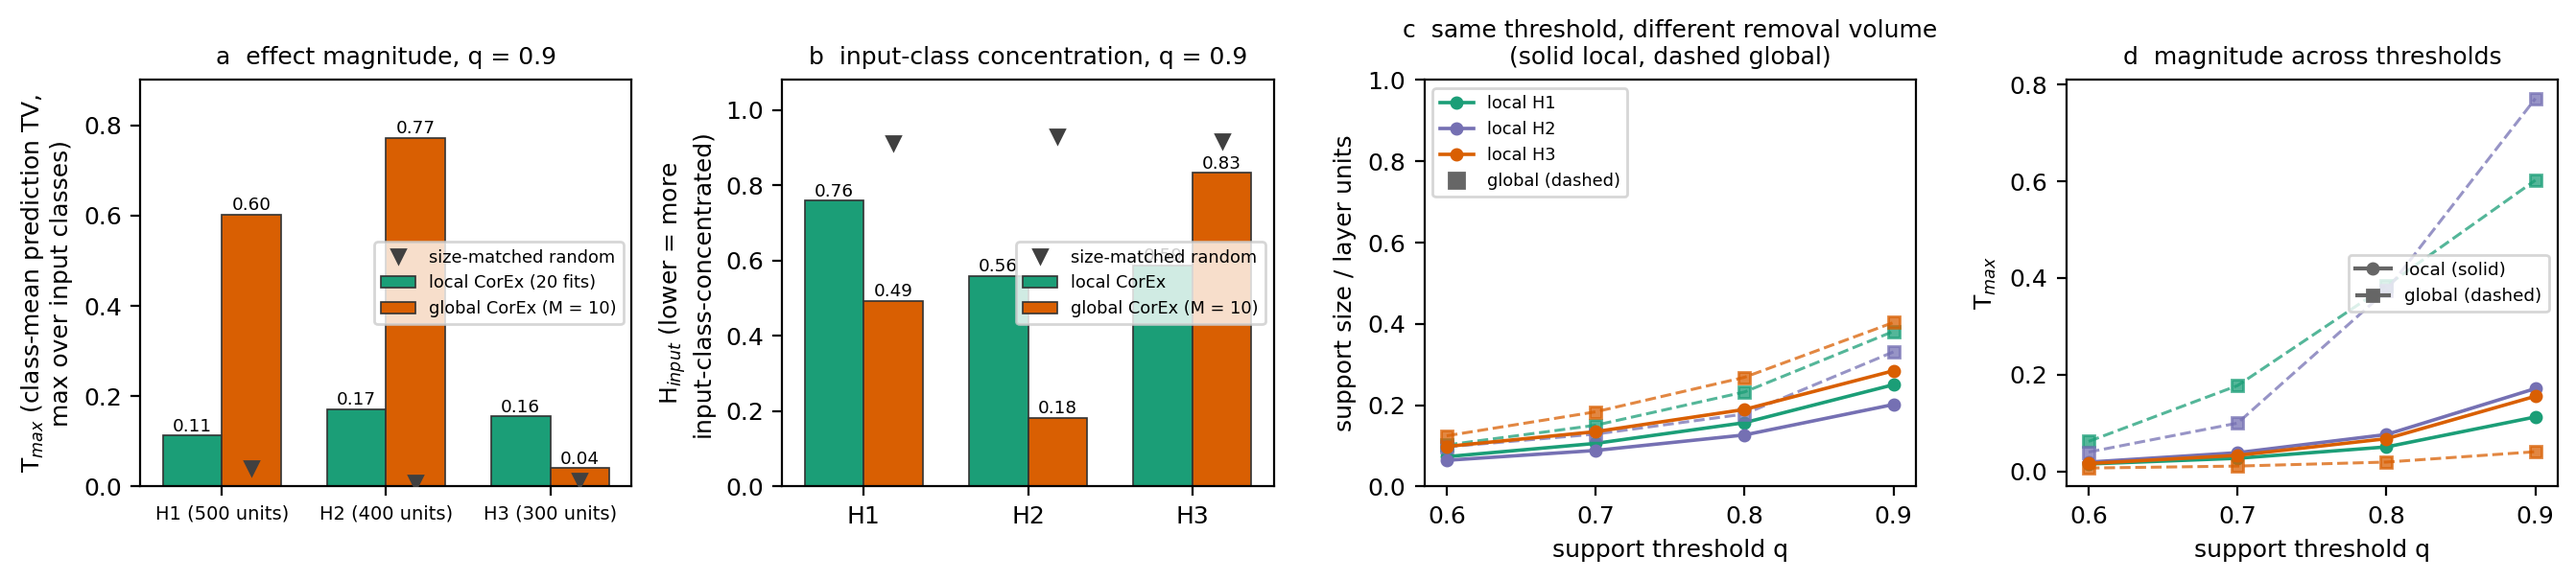
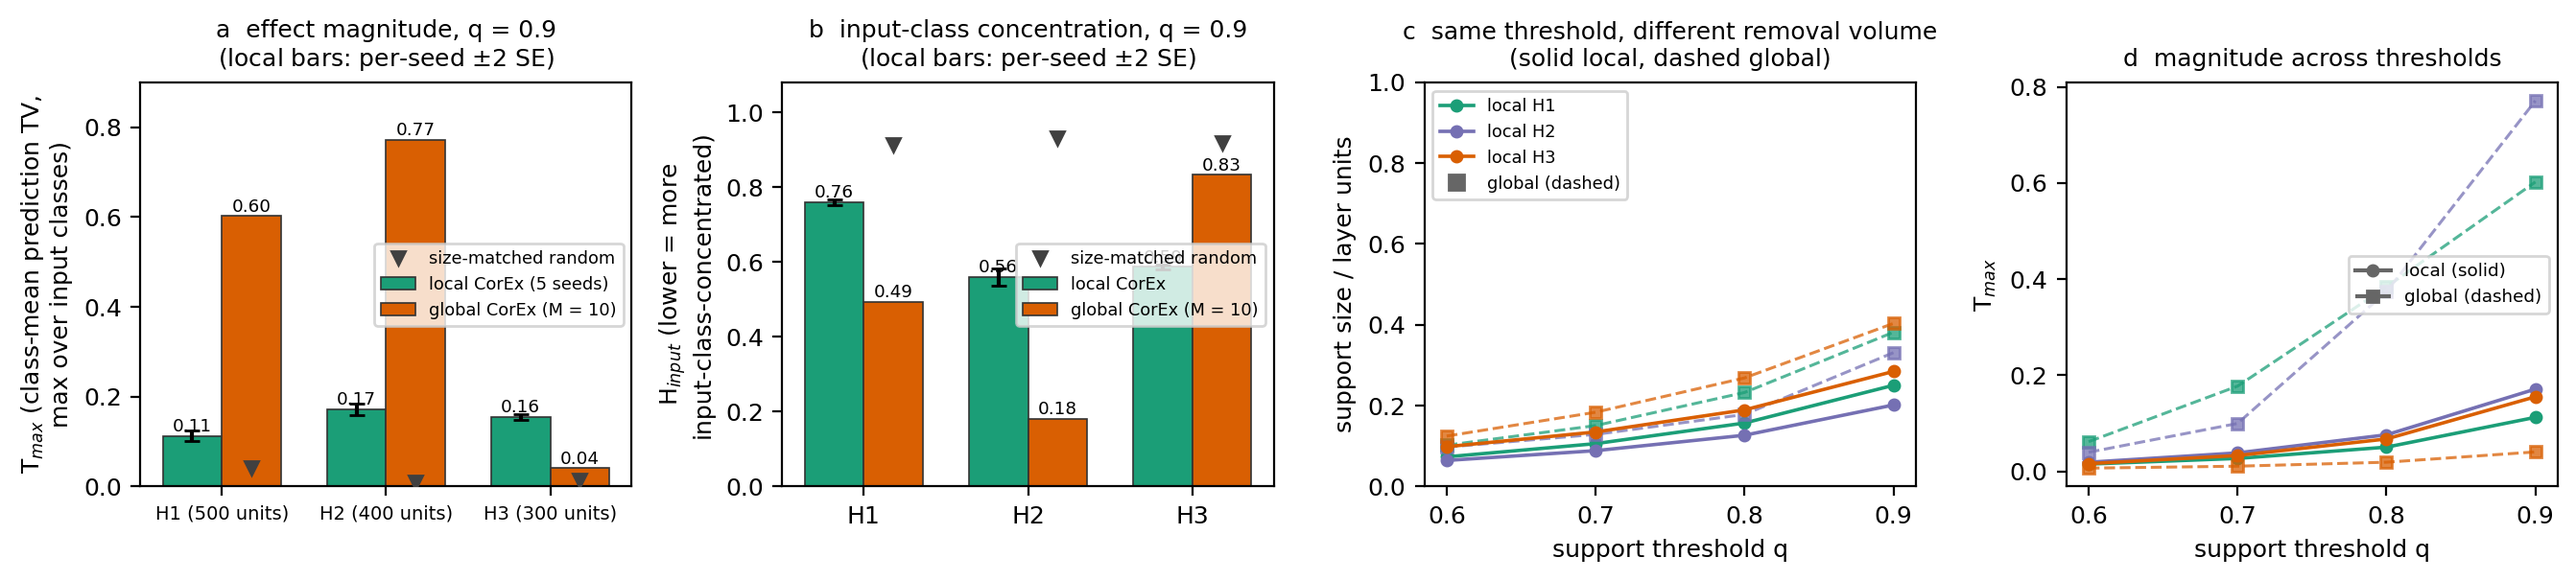
Fig 6: per-seed uncertainty on the local bars; reconciliation note on region/nuisance weighting
Closes the two remaining gaps from the round-2 review: the direct
local/global comparison now shows local-arm per-seed +/-2 SE bars (the
global-arm committed tables store only pooled means, so its interval is
flagged in the caption), and the E2 reconciliation paragraph states
explicitly that the candidate pool, nuisance settings, and region
handling are identical across the two conventions.

diff --git a/paper/figures/make_paper_figures.py b/paper/figures/make_paper_figures.py
@@ -517,14 +517,25 @@ def figure_6():
     ax = axes[0]
     xs = np.arange(3)
     w = 0.36
-    lv = [loc[(loc.threshold == 0.9) & (loc.layer == l)].T_max.mean()
-          for l in layers]
+
+    def loc_seed_err(col):
+        """Local-arm per-seed means (5 network seeds) -> mean and 2*SE."""
+        perseed = loc[loc.threshold == 0.9].groupby(
+            ["layer", "model_seed"])[col].mean().reset_index()
+        means, errs = [], []
+        for l in layers:
+            v = perseed[perseed.layer == l][col].to_numpy()
+            means.append(v.mean())
+            errs.append(2 * v.std(ddof=1) / np.sqrt(len(v)))
+        return np.array(means), np.array(errs)
+
+    lv, lv_err = loc_seed_err("T_max")
     gv = [gl[(gl.threshold == 0.9) & (gl.layer == l)].T_max.iloc[0]
           for l in layers]
     rv = [grnd[(grnd.threshold == 0.9) & (grnd.layer == l)].T_max.iloc[0]
           for l in layers]
-    ax.bar(xs - w / 2, lv, width=w, color=C["lc"], ec="0.2", lw=0.6,
-           label="local CorEx (20 fits)" if True else None)
+    ax.bar(xs - w / 2, lv, yerr=lv_err, width=w, color=C["lc"], ec="0.2",
+           lw=0.6, capsize=3, label="local CorEx (5 seeds)")
     ax.bar(xs + w / 2, gv, width=w, color=C["gl"], ec="0.2", lw=0.6,
            label="global CorEx (M = 10)")
     for i, l in enumerate(layers):
@@ -538,20 +549,20 @@ def figure_6():
     ax.set_xticks(xs)
     ax.set_xticklabels([layer_names[l] for l in layers], fontsize=7)
     ax.set_ylabel("T$_{max}$ (class-mean prediction TV,\nmax over input classes)")
-    ax.set_title("a  effect magnitude, q = 0.9", fontsize=9)
+    ax.set_title("a  effect magnitude, q = 0.9\n(local bars: per-seed $\\pm$2 SE)",
+                 fontsize=9)
     ax.legend(fontsize=6.4)
     ax.set_ylim(0, 0.9)
 
     # (b) H_input absolute at q = 0.9
     ax = axes[1]
-    lv = [loc[(loc.threshold == 0.9) & (loc.layer == l)].H_input.mean()
-          for l in layers]
+    lv, lv_err_h = loc_seed_err("H_input")
     gv = [gl[(gl.threshold == 0.9) & (gl.layer == l)].H_input.iloc[0]
           for l in layers]
     rv = [grnd[(grnd.threshold == 0.9) & (grnd.layer == l)].H_input.iloc[0]
           for l in layers]
-    ax.bar(xs - w / 2, lv, width=w, color=C["lc"], ec="0.2", lw=0.6,
-           label="local CorEx")
+    ax.bar(xs - w / 2, lv, yerr=lv_err_h, width=w, color=C["lc"], ec="0.2",
+           lw=0.6, capsize=3, label="local CorEx")
     ax.bar(xs + w / 2, gv, width=w, color=C["gl"], ec="0.2", lw=0.6,
            label="global CorEx (M = 10)")
     for i, l in enumerate(layers):
@@ -564,7 +575,8 @@ def figure_6():
     ax.set_xticks(xs)
     ax.set_xticklabels(["H1", "H2", "H3"])
     ax.set_ylabel("H$_{input}$ (lower = more\ninput-class-concentrated)")
-    ax.set_title("b  input-class concentration, q = 0.9", fontsize=9)
+    ax.set_title("b  input-class concentration, q = 0.9\n(local bars: per-seed $\\pm$2 SE)",
+                 fontsize=9)
     ax.legend(fontsize=6.4, loc="center right")
     ax.set_ylim(0, 1.08)
 

diff --git a/paper/manuscript.md b/paper/manuscript.md
@@ -393,7 +393,11 @@ not explain the Linear CorEx parity result in panel (a).
 
 **Reconciliation of the two conventions (why (a) and (b) differ).** The
 candidate-factor pool and the best-match rule are *identical* (all
-learned factors; per-true-group best). Three settings differ: (i) the
+learned factors; per-true-group best), as are the nuisance settings
+entered (the core grids are single-nuisance, so no nuisance weighting
+arises) and the region handling (both keys include the region
+identifier; each true group belongs to exactly one region, so
+best-per-group is unaffected by it). Three settings differ: (i) the
 input-variant rows scored — for the continuous grid the Bio fits exist on
 two input variants and (b) scores the primary one (`binned_with_routing`,
 with the linear reference annotated as absolute scores), while (a) scores
@@ -616,8 +620,12 @@ computation, flagged in §A rather than improvised here.
 ![Figure 6 — local vs global, same measurements](figures/figure_6.png)
 
 **Figure 6 — local and global fits identify groups with different
-layer-dependent behavioral profiles (output-aware; global M = 10; error
-bars where present, ±2·SE as stored).**
+layer-dependent behavioral profiles (output-aware; global M = 10).**
+Local bars carry per-seed ±2·SE error bars (5 network seeds, per-seed
+means over the 20-cluster pool); the committed global-arm tables store
+only pooled means, so a matching global-side interval is not derivable
+from the committed files (its per-factor behavioral rows live in the
+uncommitted raw store — flagged §A).
 (a) Magnitude at q = 0.9 (T_max, class-mean TV): global factors produce
 **larger** effects than local factors at H1 (0.60 vs. 0.11) and H2
 (0.77 vs. 0.17), but at H3 exceed their size-matched random reference by
